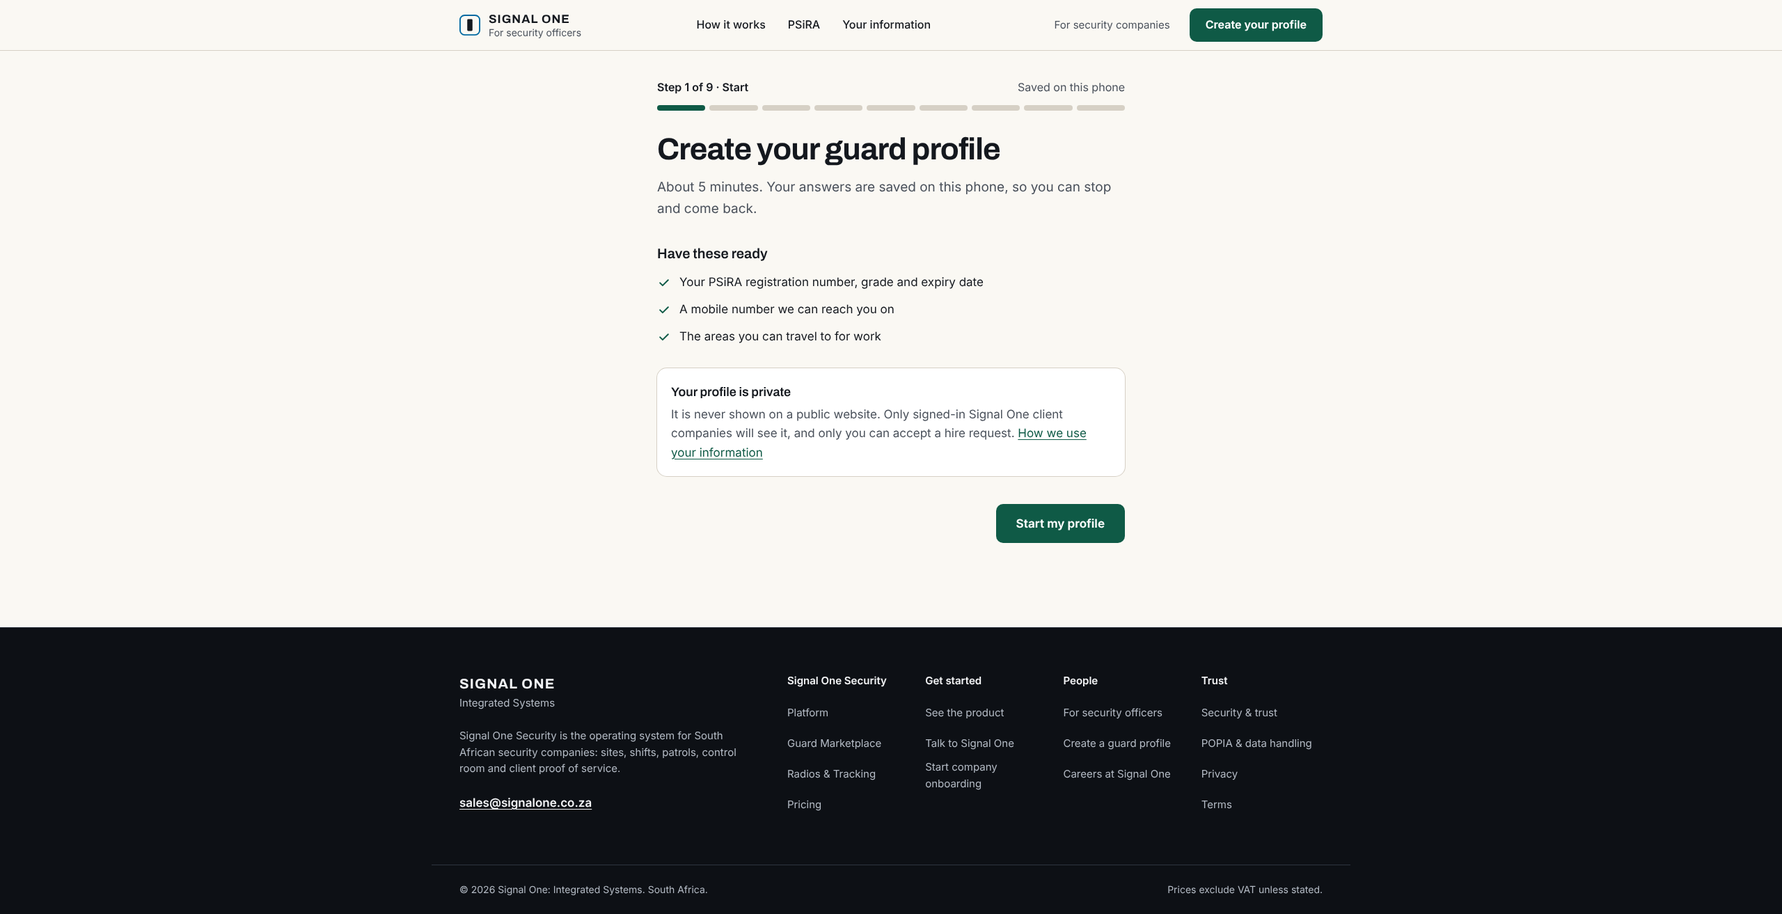
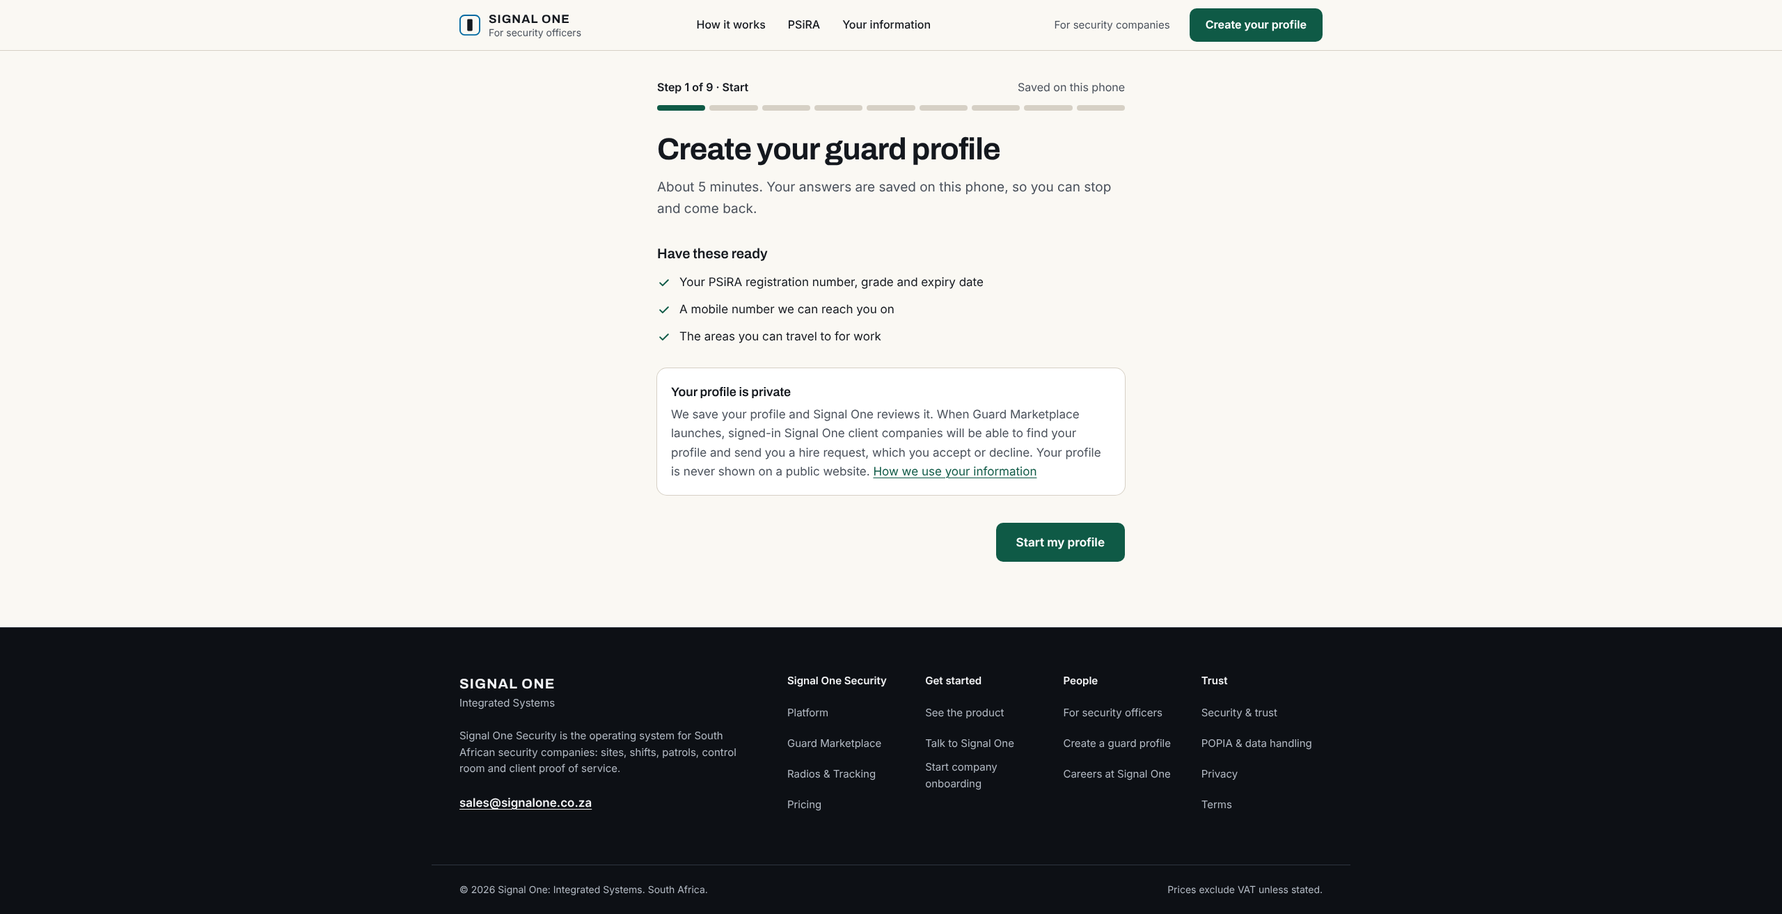
Guard-side honesty, cleaner product crops, completion screen and capture brief
- /guards, /guards/join and completion state: no present-tense Marketplace promises
- product proof: drop My operation and proof-detail views, re-crop remaining to avoid test labels
- PHOTOGRAPHY_BRIEF: curated demo tenant spec for recapture
- mailto fallback humanises field names

Claude-Session: https://claude.ai/code/session_01488kUnecEfbpVS4RVkJq7U

Changed region(s): [[0.375, 0.4372, 0.6562, 0.6245]]

diff --git a/app/components/journey/GuardJoin.tsx b/app/components/journey/GuardJoin.tsx
@@ -115,15 +115,13 @@ export default function GuardJoin() {
             Thank you. Your profile is with Signal One.
           </h1>
           <p className="mt-4 text-[1.1875rem] leading-relaxed text-text-2">
-            Here is what happens now. You do not need to do anything until we contact you.
+            Here is what happens today.
           </p>
         </div>
         <ol className="m-0 mt-8 list-none p-0">
           {[
-            ["We contact you", "Using the contact details you gave, to confirm your details and PSiRA registration."],
-            ["Your profile is ready", "When Guard Marketplace opens, eligible profiles can be seen privately by Signal One client companies. Never publicly."],
-            ["A company sends a hire request", "You see who it is from and decide. You can accept or decline."],
-            ["If you accept", "The company adds you to its workforce and allocates you to a site and shifts."],
+            ["Signal One reviews your profile", "We have saved what you sent and the Signal One team will review it."],
+            ["We contact you", "Using the contact details you gave, to confirm your details and PSiRA registration. We cannot say when."],
           ].map(([title, body], index) => (
             <li key={title} className="grid grid-cols-[2.75rem_1fr] gap-4 border-t border-line py-5">
               <span className="t-num text-[1.75rem] text-field">{index + 1}</span>
@@ -135,6 +133,9 @@ export default function GuardJoin() {
           ))}
         </ol>
         <p className="mt-6 text-[1.0625rem] text-text-2">
+          Guard Marketplace is not live yet. When it launches, signed-in Signal One client companies will be able to find your profile and send you a hire request, which you accept or decline. Your profile is never shown on a public website.
+        </p>
+        <p className="mt-4 text-[1.0625rem] text-text-2">
           Want something corrected or removed? Email{" "}
           <a href="mailto:sales@signalone.co.za" className="link-inline font-semibold text-field">
             sales@signalone.co.za
@@ -200,8 +201,7 @@ export default function GuardJoin() {
               <div className="mt-8 rounded-card bg-white p-5 ring-1 ring-line">
                 <h2 className="text-[1.125rem] font-semibold">Your profile is private</h2>
                 <p className="mt-1 text-[1.0625rem] text-text-2">
-                  It is never shown on a public website. Only signed-in Signal One client companies will see it, and only
-                  you can accept a hire request.{" "}
+                  We save your profile and Signal One reviews it. When Guard Marketplace launches, signed-in Signal One client companies will be able to find your profile and send you a hire request, which you accept or decline. Your profile is never shown on a public website.{" "}
                   <Link href="/guards#your-information" className="link-inline text-field">
                     How we use your information
                   </Link>
@@ -213,7 +213,7 @@ export default function GuardJoin() {
           {current.id === "profile" ? (
             <StepShell
               title="About you"
-              why="Companies see your name on your profile when you are matched with work."
+              why="Signal One uses this to review your profile and contact you."
               next="How we contact you."
             >
               <JText j={j} name="fullName" label="Full name" required autoComplete="name" />
@@ -233,7 +233,7 @@ export default function GuardJoin() {
           {current.id === "identity" ? (
             <StepShell
               title="How can we reach you?"
-              why="Signal One uses this to confirm your details. Hire requests also reach you here once Marketplace opens."
+              why="Signal One uses this to confirm your details. We use it to contact you."
               next="Your PSiRA registration."
             >
               <JText j={j} name="mobile" label="Mobile number" type="tel" required autoComplete="tel" inputMode="tel" placeholder="e.g. 082 123 4567" />
@@ -284,7 +284,7 @@ export default function GuardJoin() {
           {current.id === "experience" ? (
             <StepShell
               title="Your experience"
-              why="Companies look for guards who have worked on sites like theirs."
+              why="This helps Signal One review your profile."
               next="Your skills."
             >
               <JRadio
@@ -320,7 +320,7 @@ export default function GuardJoin() {
           {current.id === "skills" ? (
             <StepShell
               title="Your skills"
-              why="Skills are one of the five things companies can filter on."
+              why="This helps Signal One review your profile. Skills are one of the things Marketplace is planned to search on."
               next="Where you can work."
             >
               <JMulti
@@ -348,7 +348,7 @@ export default function GuardJoin() {
           {current.id === "areas" ? (
             <StepShell
               title="Where can you work?"
-              why="Location is the first thing companies filter on. We only show you to companies near where you can work."
+              why="Where you can work is one of the things Marketplace is planned to search on. Nothing is shown to companies today."
               next="When you can work."
             >
               <JSelect j={j} name="province" label="Province" required options={provinces} />
@@ -368,7 +368,7 @@ export default function GuardJoin() {
           {current.id === "availability" ? (
             <StepShell
               title="When can you work?"
-              why="Companies filter on availability. You can ask us to update it at any time."
+              why="Availability is one of the things Marketplace is planned to search on. You can ask us to update it at any time."
               next="Check your answers and send."
             >
               <JRadio
@@ -415,7 +415,7 @@ export default function GuardJoin() {
               <div className="mt-6 rounded-card bg-white p-5 ring-1 ring-line">
                 <Consent j={j}>
                   I agree that Signal One may use this information to assess my profile and contact me, and, when Guard
-                  Marketplace opens, show my profile privately to Signal One client companies. I can ask for it to be
+                  Marketplace launches, let signed-in Signal One client companies find my profile and send me hire requests. I can ask for it to be
                   corrected or deleted at any time.
                 </Consent>
               </div>

diff --git a/app/guards/page.tsx b/app/guards/page.tsx
@@ -6,7 +6,7 @@ import { photos } from "../lib/photos";
 export const metadata: Metadata = {
   title: "For Security Officers: Signal One Guard and Guard Marketplace",
   description:
-    "For security officers in South Africa: how the Signal One Guard app works on shift, how Guard Marketplace hire requests will work, what PSiRA details we ask for and why, and how your information is kept private.",
+    "For security officers in South Africa: how the Signal One Guard app works on shift, what Guard Marketplace is planned to do, what PSiRA details we ask for and why, and how your information is kept private.",
   alternates: { canonical: "/guards" },
 };
 
@@ -20,9 +20,9 @@ const onShift = [
 
 const joinSteps = [
   ["Create your profile", "About 5 minutes on your phone. Your progress is saved as you go."],
+  ["Signal One reviews it", "We save your profile and review it."],
   ["We contact you", "To confirm your details and your PSiRA registration."],
-  ["Hire requests", "When Guard Marketplace opens, companies near you can send a hire request."],
-  ["You decide", "Accept or decline. If you accept, the company adds you to its team and gives you shifts."],
+  ["Marketplace, when it launches", "Signed-in Signal One client companies will be able to find your profile and send you a hire request. You accept or decline."],
 ] as const;
 
 export default function GuardsPage() {
@@ -36,8 +36,8 @@ export default function GuardsPage() {
               Your work, on record. Your next job, your choice.
             </h1>
             <p className="mt-6 max-w-[34rem] text-[1.25rem] leading-relaxed text-text-2">
-              Signal One Guard is the app you use on shift. Guard Marketplace, coming soon, lets security companies find
-              you for new work. You always decide whether to take it.
+              Signal One Guard is the app you use on shift. Guard Marketplace is not live yet. When it launches, signed-in
+              security companies will be able to send you hire requests. You will always decide whether to accept.
             </p>
             <div className="mt-8 flex flex-col gap-3 sm:flex-row">
               <Link href="/guards/join" className="btn btn-field btn-lg">
@@ -79,11 +79,11 @@ export default function GuardsPage() {
           </div>
           <div>
             <div className="flex flex-wrap items-center gap-3">
-              <h2 className="font-display text-[2.25rem] font-bold leading-tight tracking-[-0.02em]">New work: Marketplace</h2>
+              <h2 className="font-display text-[2.25rem] font-bold leading-tight tracking-[-0.02em]">Planned: Guard Marketplace</h2>
               <span className="rounded-full bg-beta-tint px-3 py-1 text-[0.9375rem] font-semibold text-beta">Coming soon</span>
             </div>
             <p className="mt-4 text-[1.1875rem] leading-relaxed text-text-2">
-              Security companies that win new contracts need guards. Marketplace will let them find you by:
+              We are building Marketplace. When it launches, signed-in Signal One client companies will be able to find profiles by:
             </p>
             <ul className="m-0 mt-6 grid list-none gap-3 p-0 text-[1.125rem]">
               {["Where you can work", "Your PSiRA grade", "When you are available", "Your experience", "Your skills"].map((item) => (
@@ -94,7 +94,7 @@ export default function GuardsPage() {
               ))}
             </ul>
             <p className="mt-6 text-[1.0625rem] text-text-2">
-              No ratings, no scores, no badges. A company sends you a hire request, and you accept or decline it.
+              No ratings, no scores, no badges. A company will be able to send you a hire request, which you accept or decline. Nothing is live today, and we cannot promise when it will be or that you will receive any request.
             </p>
           </div>
         </div>
@@ -130,9 +130,9 @@ export default function GuardsPage() {
           <ul className="m-0 grid list-none gap-4 p-0 text-[1.125rem]">
             {[
               "Your profile is never shown on a public website or jobs board.",
-              "Only signed-in Signal One client companies will see it, once Marketplace opens.",
+              "Today we save it and Signal One reviews it. When Marketplace launches, only signed-in Signal One client companies will be able to find it.",
               "We do not ask for your ID number on the form.",
-              "You decide on every hire request.",
+              "When hire requests exist, you decide on each one.",
               "You can ask us to correct or delete your information at any time.",
             ].map((item) => (
               <li key={item} className="flex gap-3">

diff --git a/app/solutions/security/page.tsx b/app/solutions/security/page.tsx
@@ -27,7 +27,6 @@ const fieldCapabilities = [
 ] as const;
 
 export default function SecurityPlatformPage() {
-  const operation = view("operation");
   const control = view("control");
   const proof = view("proof");
   const people = view("people");
@@ -57,8 +56,8 @@ export default function SecurityPlatformPage() {
               </ButtonLink>
             </div>
           </div>
-          <ProductWindow screen={operation.screen}>
-            <ProofImage shot={operation.shots[0]} priority />
+          <ProductWindow screen={control.screen}>
+            <ProofImage shot={control.shots[0]} priority />
           </ProductWindow>
         </div>
       </section>
@@ -69,7 +68,7 @@ export default function SecurityPlatformPage() {
           <div>
             <Kicker>Coverage and supervision</Kicker>
             <h2 className="t-h2 mt-4">Know which posts are short before the client does.</h2>
-            <p className="t-body mt-5 text-text-2">{operation.body}</p>
+            <p className="t-body mt-5 text-text-2">The supervisor&rsquo;s day in one place: your sites, the roster against each post, shortfalls, and every SOS or late patrol waiting for action.</p>
             <ul className="m-0 mt-6 grid list-none gap-3 p-0">
               {["Sites, posts and shifts", "Roster or map view", "Shortfalls per post", "Guards on duty now"].map((item) => (
                 <li key={item} className="t-body flex gap-3">
@@ -79,14 +78,13 @@ export default function SecurityPlatformPage() {
               ))}
             </ul>
           </div>
-          <div className="grid content-start gap-6">
-            <ProductWindow screen={control.screen}>
-              <ProofImage shot={control.shots[0]} />
-            </ProductWindow>
-            <div>
-              <h3 className="t-h3">The control room sees every SOS in order.</h3>
-              <p className="t-body mt-3 text-text-2">{control.body}</p>
-            </div>
+          <div className="grid content-start gap-4 lg:pt-2">
+            <h3 className="t-h3">The control room sees every SOS in order.</h3>
+            <p className="t-body text-text-2">{control.body}</p>
+            <p className="t-body text-text-2">
+              Supervisors see each post&rsquo;s roster and any shortfall before the shift starts, and the map shows the last known
+              position of each guard with its age.
+            </p>
           </div>
         </div>
       </section>
@@ -174,12 +172,7 @@ export default function SecurityPlatformPage() {
               </p>
             </div>
             <ProductWindow screen={proof.screen}>
-              {proof.shots.map((shot, i) => (
-                <div key={i} className={i > 0 ? "border-t border-dashed border-[#3a414b]" : ""}>
-                  {i > 0 ? <p className="bg-[#141619] px-4 py-2 text-[0.875rem] text-[#c6ccd4]">Further down the same screen</p> : null}
-                  <ProofImage shot={shot} />
-                </div>
-              ))}
+              <ProofImage shot={proof.shots[0]} />
             </ProductWindow>
           </div>
         </div>

diff --git a/app/lib/productProof.ts b/app/lib/productProof.ts
@@ -2,16 +2,16 @@
  * Real Signal One Guard screens, captured from the controlled demo
  * environment. All names, sites and records are synthetic test data.
  * Crops exclude navigation chrome and were checked for real names and
- * phone numbers. Source captures live in git history (pre-6173d28).
+ * phone numbers. Regions were chosen to avoid test-data labels ("Smoke …",
+ * raw enum codes); nothing inside a screenshot is edited. The "My operation"
+ * and proof-detail views are not shown because no region of them is clean:
+ * see "Product capture" in docs/PHOTOGRAPHY_BRIEF.md. Source captures live in
+ * git history (pre-6173d28).
  */
 import controlRoomDesktop from "../../public/images/product-proof/crops/control-room-desktop.webp";
 import controlRoomMobile from "../../public/images/product-proof/crops/control-room-mobile.webp";
-import operationDesktop from "../../public/images/product-proof/crops/operation-desktop.webp";
-import operationMobile from "../../public/images/product-proof/crops/operation-mobile.webp";
 import peopleDesktop from "../../public/images/product-proof/crops/people-access-desktop.webp";
 import peopleMobile from "../../public/images/product-proof/crops/people-access-mobile.webp";
-import proofDetailDesktop from "../../public/images/product-proof/crops/proof-detail-desktop.webp";
-import proofDetailMobile from "../../public/images/product-proof/crops/proof-detail-mobile.webp";
 import proofSummaryDesktop from "../../public/images/product-proof/crops/proof-summary-desktop.webp";
 import proofSummaryMobile from "../../public/images/product-proof/crops/proof-summary-mobile.webp";
 import type { StaticImageData } from "next/image";
@@ -32,20 +32,6 @@ export type ProofView = {
 };
 
 export const proofViews: ProofView[] = [
-  {
-    id: "operation",
-    tab: "My operation",
-    screen: "My operation",
-    title: "Which posts are short, who is on duty, what needs you now.",
-    body: "The supervisor's day in one screen: your sites, the roster against each post, shortfalls, and every SOS or late patrol waiting for action.",
-    shots: [
-      {
-        desktop: operationDesktop,
-        mobile: operationMobile,
-        alt: "Signal One Guard My operation screen showing a site summary, a roster with posts short by one guard, and a Needs you list of unresolved SOS alerts",
-      },
-    ],
-  },
   {
     id: "control",
     tab: "Control room",
@@ -71,11 +57,6 @@ export const proofViews: ProofView[] = [
         desktop: proofSummaryDesktop,
         mobile: proofSummaryMobile,
         alt: "Signal One Guard Proof of service summary with a Generate report button and counts of services, proven, partly proven, unresolved and not proven",
-      },
-      {
-        desktop: proofDetailDesktop,
-        mobile: proofDetailMobile,
-        alt: "Scheduled services listed with Proven, Not proven, Unresolved and Partly proven statuses and the reason for each, such as attendance verified at both ends",
       },
     ],
   },

diff --git a/app/lib/intake.ts b/app/lib/intake.ts
@@ -22,13 +22,18 @@ const subjects: Record<string, string> = {
 // Mail clients and some OSes truncate very long mailto: links.
 const MAX_BODY_CHARS = 1500;
 
+function humanise(name: string): string {
+  const words = name.replace(/([a-z])([A-Z])/g, "$1 $2").replace(/[-_]/g, " ").toLowerCase();
+  return (words.charAt(0).toUpperCase() + words.slice(1)).replace(/psira/gi, "PSiRA");
+}
+
 /** Builds a mailto: link prefilled with the visitor's answers. */
 export function buildMailto(data: Record<string, string>, labels: Record<string, string> = {}): IntakeFallback {
   const intent = data.intent || "";
   const subject = "Signal One website: " + (subjects[intent] || intent || "Enquiry");
   const lines = Object.entries(data)
     .filter(([name, value]) => name !== "intent" && value)
-    .map(([name, value]) => (labels[name] || name) + ": " + value);
+    .map(([name, value]) => (labels[name] || humanise(name)) + ": " + value);
   let body = lines.join("\n");
   if (body.length > MAX_BODY_CHARS) body = body.slice(0, MAX_BODY_CHARS) + "\n[shortened: please add anything missing]";
   const href = "mailto:" + salesEmail + "?subject=" + encodeURIComponent(subject) + "&body=" + encodeURIComponent(body);

diff --git a/app/components/ProductProof.tsx b/app/components/ProductProof.tsx
@@ -13,7 +13,7 @@ export function ProofImage({ shot, priority = false }: { shot: ProofShot; priori
   const common = { alt: shot.alt, quality: 90, priority };
   const {
     props: { srcSet: desktopSrcSet, sizes: desktopSizes },
-  } = getImageProps({ ...common, src: shot.desktop, sizes: "(min-width: 1280px) 1240px, 100vw" });
+  } = getImageProps({ ...common, src: shot.desktop, sizes: "(min-width: 1280px) 860px, 100vw" });
   const {
     props: mobileProps,
   } = getImageProps({ ...common, src: shot.mobile, sizes: "100vw" });
@@ -63,7 +63,7 @@ export function ProductWindow({
   );
 }
 
-export default function ProductProof({ initial = "operation" }: { initial?: string }) {
+export default function ProductProof({ initial = "control" }: { initial?: string }) {
   const [active, setActive] = useState(initial);
   const tabRefs = useRef<Array<HTMLButtonElement | null>>([]);
   const index = Math.max(0, proofViews.findIndex((view) => view.id === active));

diff --git a/app/page.tsx b/app/page.tsx
@@ -76,7 +76,7 @@ const clientSees = [
 ] as const;
 
 export default function Home() {
-  const proveShot = proofViews.find((view) => view.id === "proof")?.shots[1];
+  const proveShot = proofViews.find((view) => view.id === "proof")?.shots[0];
 
   return (
     <main id="main">
@@ -379,7 +379,7 @@ export default function Home() {
           </div>
 
           {proveShot ? (
-            <ProductWindow screen="Proof of service" className="mt-12">
+            <ProductWindow screen="Proof of service" className="mt-12 max-w-[860px]">
               <ProofImage shot={proveShot} />
             </ProductWindow>
           ) : null}

diff --git a/app/guards/join/page.tsx b/app/guards/join/page.tsx
@@ -4,7 +4,7 @@ import GuardJoin from "../../components/journey/GuardJoin";
 export const metadata: Metadata = {
   title: "Create Your Guard Profile",
   description:
-    "Security officers: create a private Signal One guard profile with your PSiRA details, experience, skills, areas and availability. Never shown publicly.",
+    "Security officers: create a private Signal One guard profile with your PSiRA details, experience, skills, areas and availability. Never shown on a public website. Signal One reviews it and contacts you.",
   alternates: { canonical: "/guards/join" },
 };
 

diff --git a/docs/PHOTOGRAPHY_BRIEF.md b/docs/PHOTOGRAPHY_BRIEF.md
@@ -45,3 +45,19 @@ Check every frame for the following:
 - blur or upscaling
 - stretched aspect ratios
 - weak crops at 390px and 2560px
+
+## Product capture: curated demo tenant (needed for recapture)
+
+The product screenshots on the site are crops of captures from a test tenant. Every region of the "My operation" roster and the proof-of-service detail list carries test labels ("SMOKE A Site", "Smoke walk-through post", "Smoke idle guard", "Realistic Late c2995a93"), raw enum codes (`EARLY_CLOCK_OUT`, `OUTSIDE_RADIUS`) and US-format dates (`9/26/2026, 5:09:38 AM`). We do not blur or edit screenshots, so those two views are **not shown** until the tenant below exists. The control-room, proof summary and people views use the cleanest regions available today.
+
+Build one curated demo tenant, then recapture all views at 1440px wide (desktop) and 390px wide (mobile), dark theme, navigation tabs cropped out (the product tab still says "Shared site phone"; the website says Central Device).
+
+- **Company:** a plausible mid-size South African security company, for example "Ikhaya Security Services". No "Demo", "Smoke" or "Test".
+- **People:** 25–40 guards with realistic South African names across language groups, 3–4 supervisors, one company admin. Email addresses on a real-looking domain, not `.local`.
+- **Sites:** four to six, named like real work: a residential estate (for example "Bryanston Estate"), an office park ("Waterfall Office Park"), a logistics yard ("Isando Logistics Yard"), a school or mall. Posts named by function: "Main gate", "Pedestrian gate", "Control room".
+- **One plausible day:** day, afternoon and night shifts across the sites, one shortfall (a post short by one guard), a handful of patrols with QR/NFC checkpoints scanned on time and one missed, and **one** SOS that is acknowledged and resolved. No dozens of identical alerts.
+- **Proof of service:** a week with a believable mix: mostly proven, a few partly proven or unresolved, each with a human-readable reason.
+- **Dates and times:** en-ZA format (`26 Sep 2026, 05:09`, 24-hour). Product change needed if the app currently renders `M/D/YYYY h:mm AM`.
+- **No raw enum codes** in any visible text. Reasons are phrased in words ("clock-out earlier than the shift end").
+- **Counts:** queue sizes that a real operation would have, not 77 live SOS or 323 open items.
+- **Checks before publishing:** no real names, phone numbers or emails; no test prefixes; screenshots unedited.
